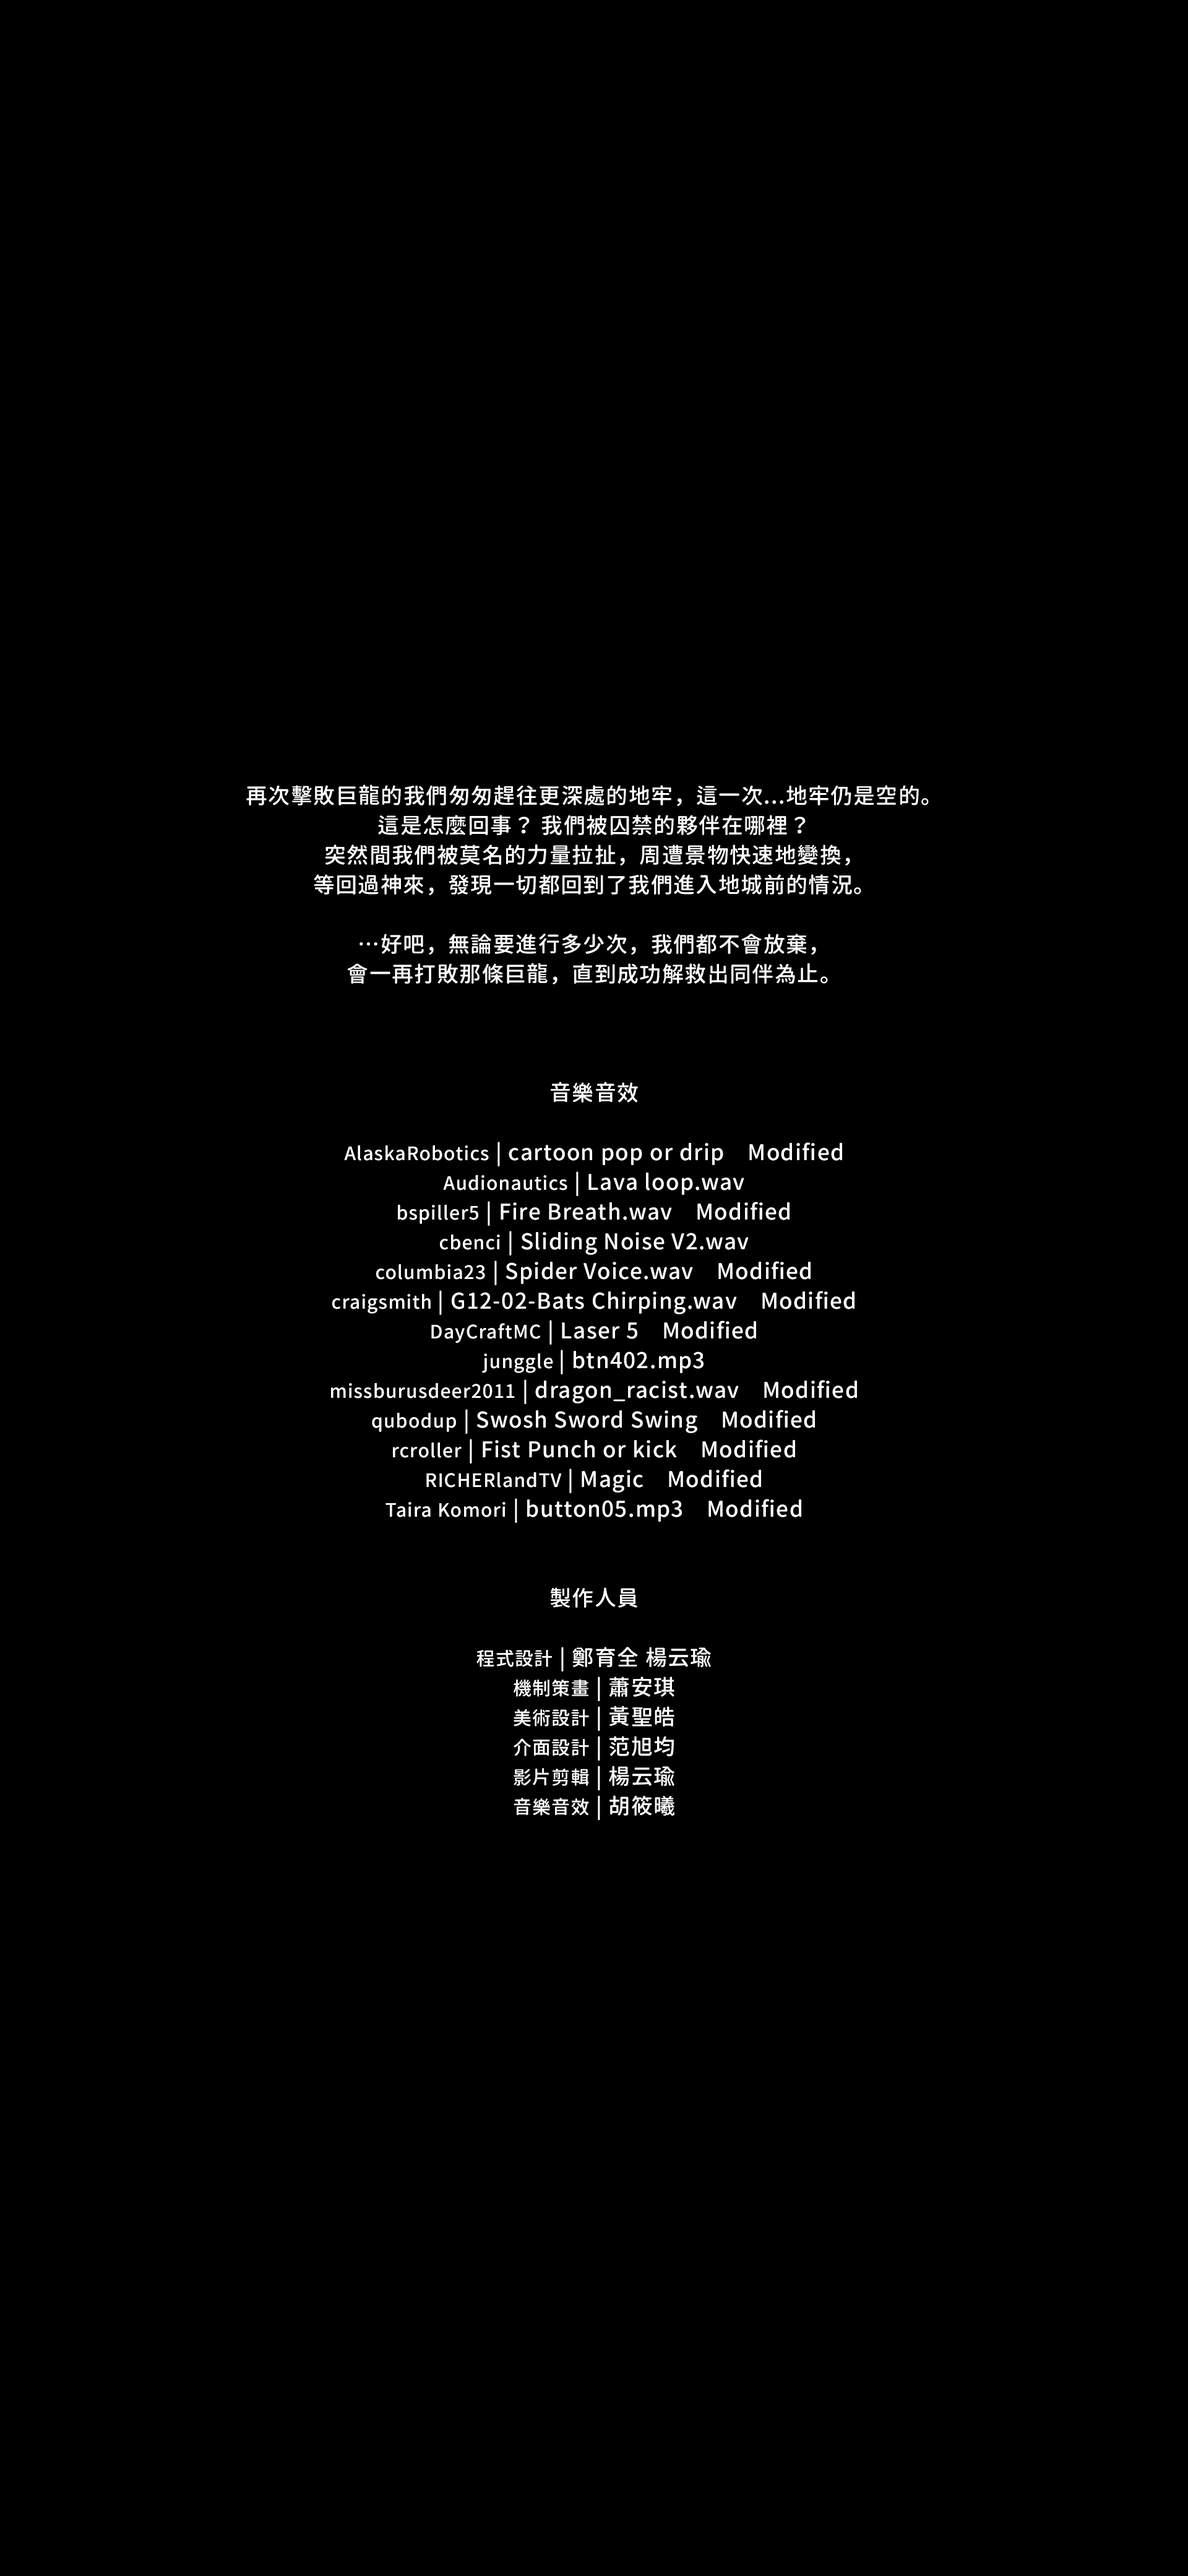
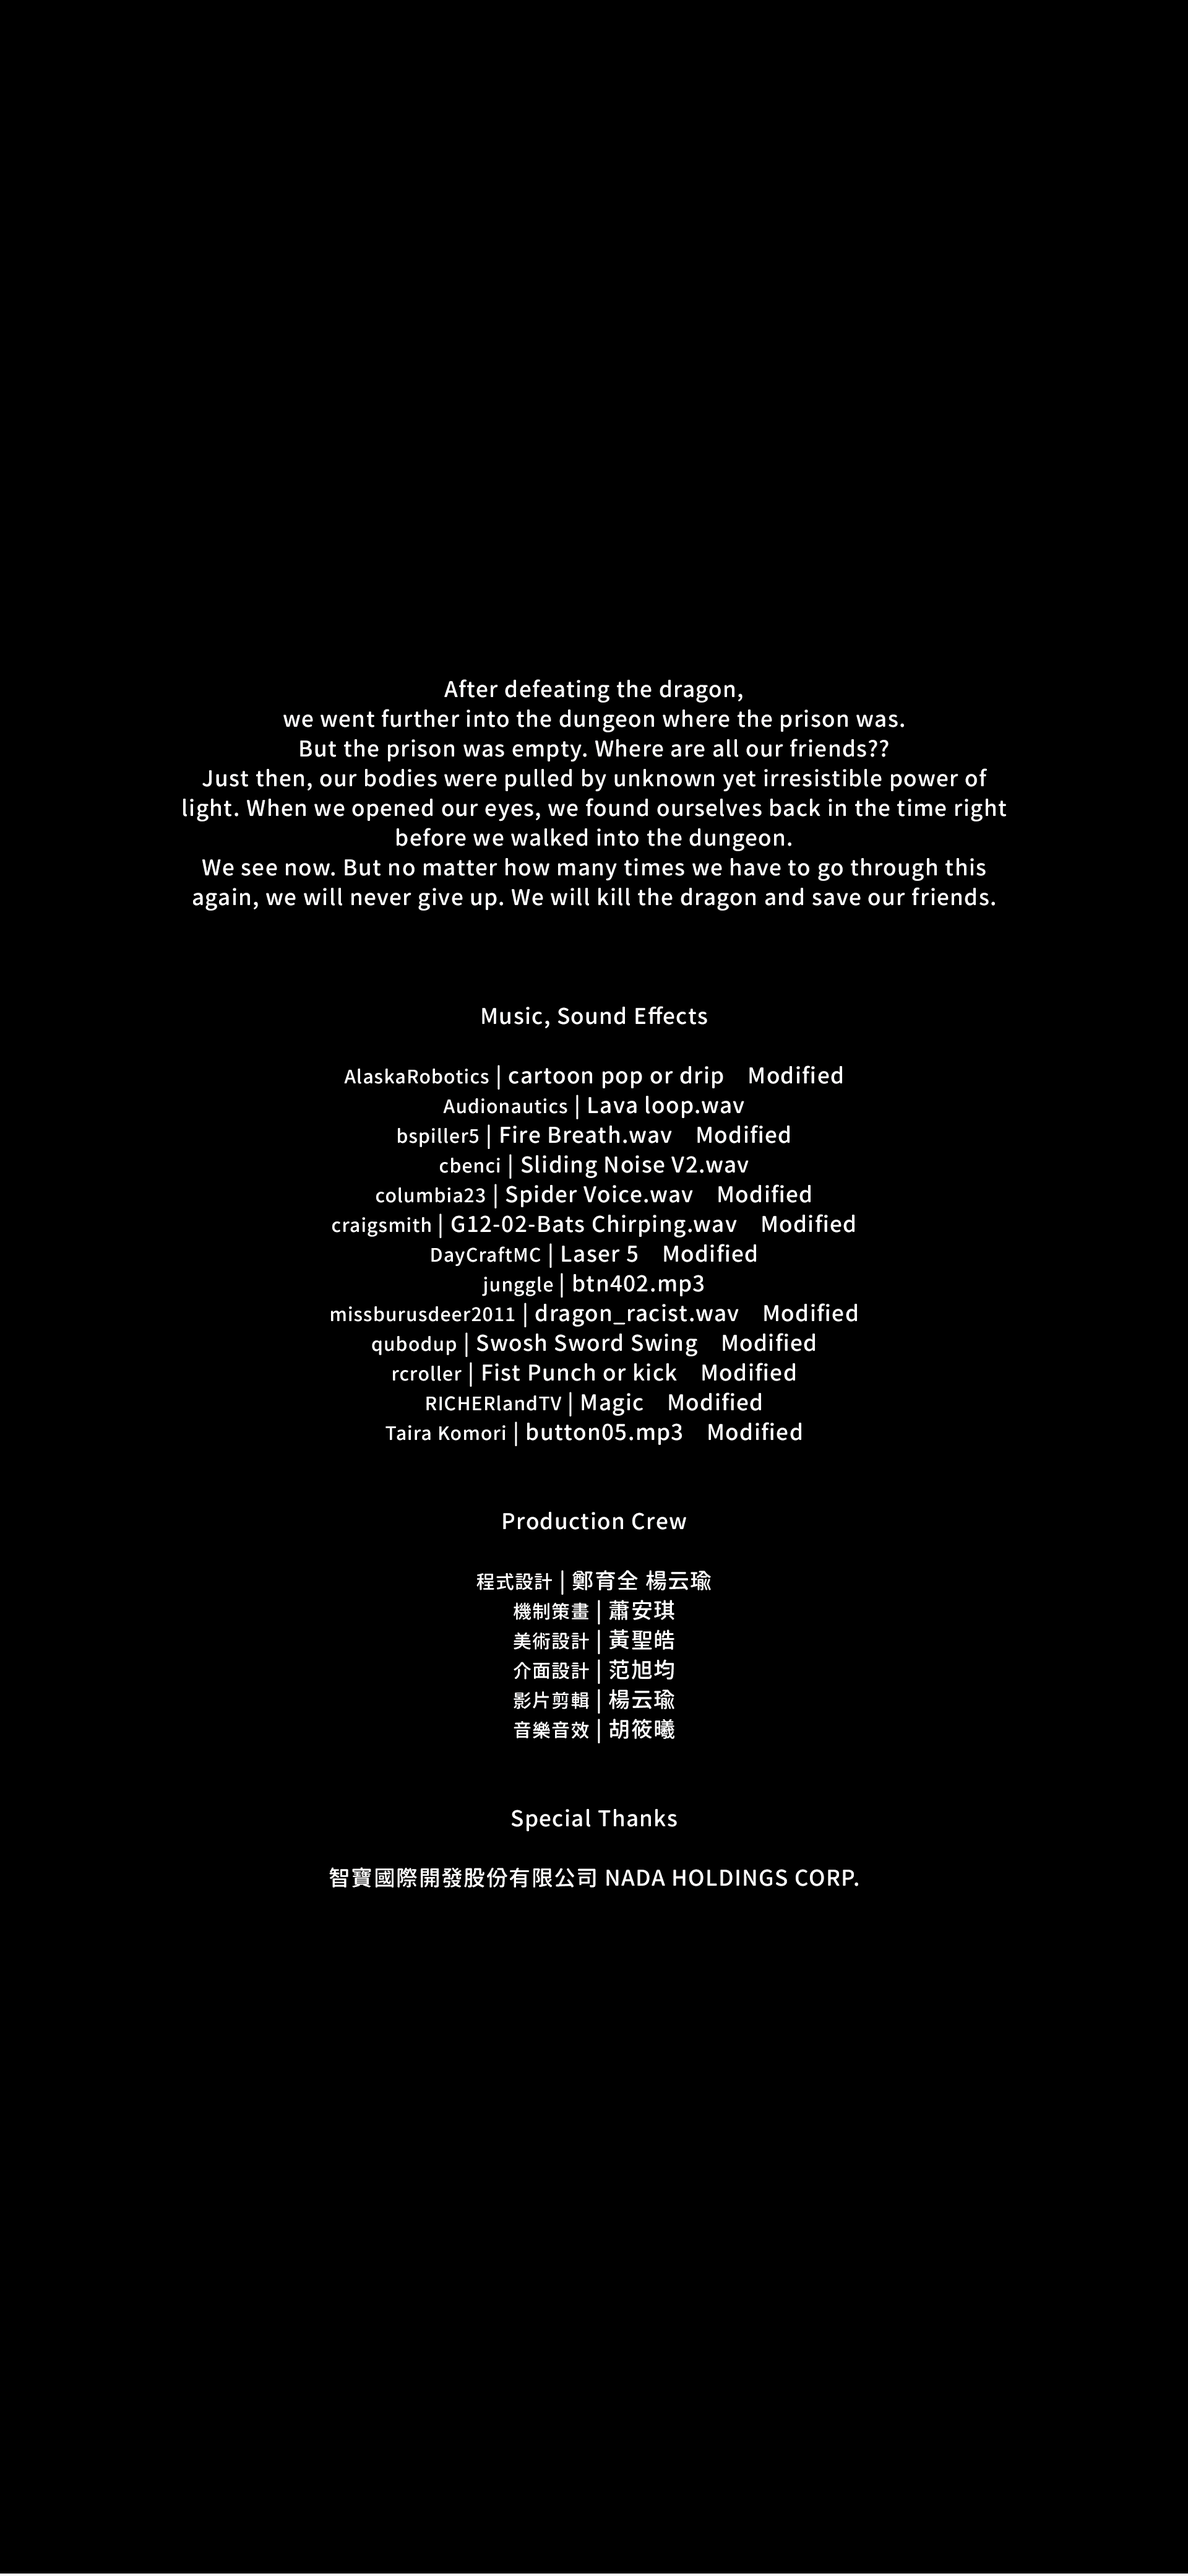
教學關調整完成/教學關死亡畫面還是中文

Changed region(s): [[0.1562, 0.2499, 0.8438, 0.7498], [0.0, 0.9998, 1.0, 1.0]]

diff --git a/Assets/Script/GameManager.cs b/Assets/Script/GameManager.cs
@@ -9,7 +9,7 @@ namespace com.DungeonPad
 {
     public class GameManager : MonoBehaviour
     {
-        public const bool staff = false, DEMO = false;
+        public const bool staff = true, DEMO = false;
         public static string language = "_CH";
 
         public static GameManager gameManager;
